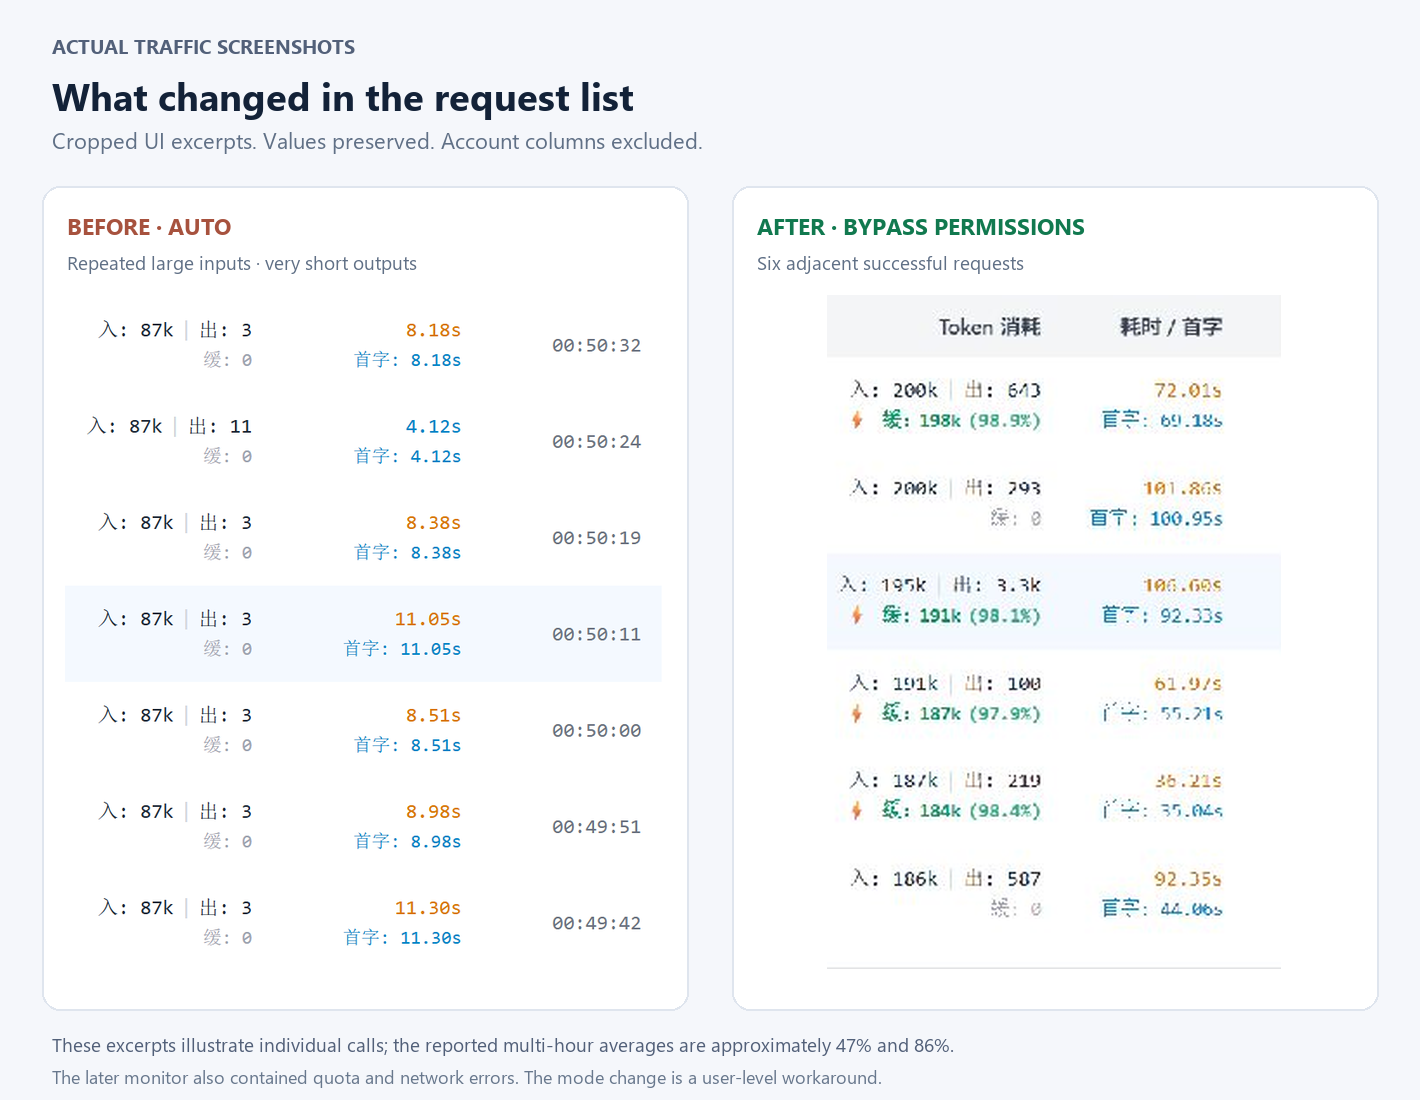
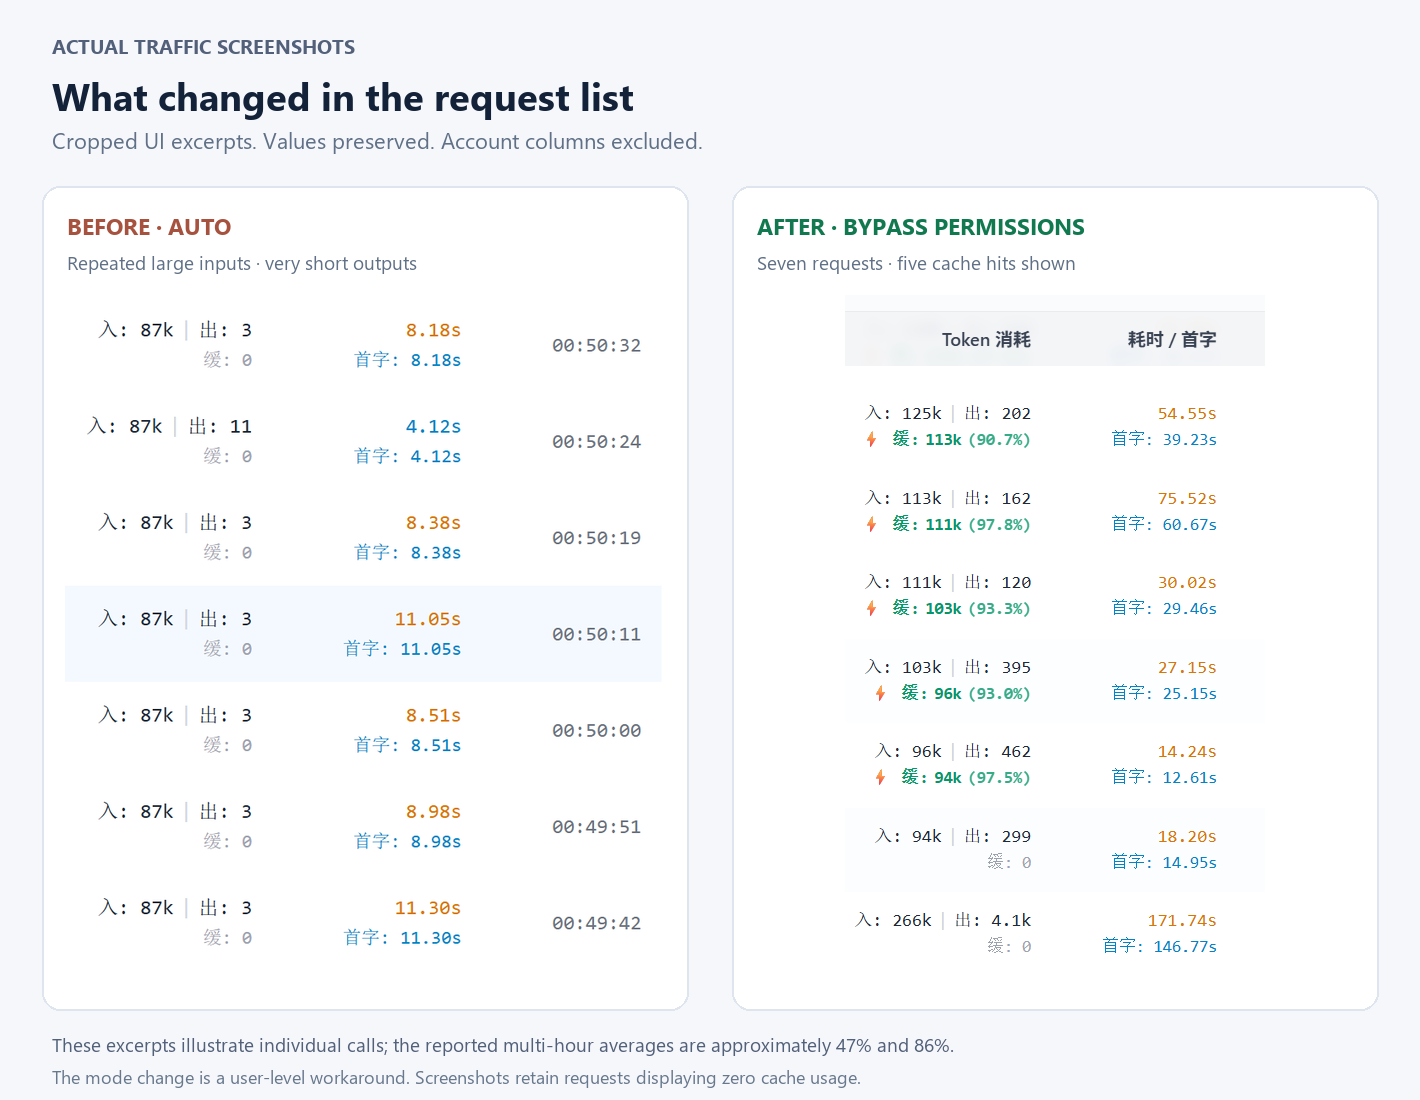
Update post-change traffic screenshot

diff --git a/README.en.md b/README.en.md
@@ -14,9 +14,9 @@ After I changed the permission mode from **Auto** to **Bypass Permissions**, the
 
 ![Actual traffic screenshots before and after the change](assets/traffic-comparison.png)
 
-The left excerpt comes from the original Antigravity Tools screenshot. It shows repeated large input counts, very short outputs, and cache usage displayed as zero. The right excerpt comes from the later live traffic page. Several of its six adjacent successful requests display roughly 98% cache reuse. Requests displaying zero cache usage remain visible too.
+The left excerpt comes from the original Antigravity Tools screenshot. It shows repeated large input counts, very short outputs, and cache usage displayed as zero. The right screenshot shows seven post-change requests. Five display cache reuse between 90.7% and 97.8%, while two requests displaying zero cache usage remain visible too.
 
-Account columns and unrelated regions were cropped out. The numerical values were preserved. At capture time, the search box displayed `200`, and all six visible rows were successful requests. This panel illustrates successful traffic; the same live monitor also contained upstream quota and network errors.
+The published images show token usage, cache usage and latency summaries. Numerical values were preserved. Account information and unrelated content are outside the images.
 
 Original-resolution crops: [before](assets/traffic-before.png) · [after](assets/traffic-after.png).
 

diff --git a/README.md b/README.md
@@ -14,9 +14,9 @@
 
 ![真实流量截图对比，左为切换前，右为切换后](assets/traffic-comparison.png)
 
-左侧来自最初发现问题时的 Antigravity Tools 流量截图。能看到连续相同的大输入、3 token 左右的短输出，以及界面显示的“缓 0”。右侧来自切换后的真实流量页面，六条相邻成功请求中，多条显示约 98% 的缓存复用，同时保留了缓存显示为 0 的请求。
+左侧来自最初发现问题时的 Antigravity Tools 流量截图。能看到连续相同的大输入、3 token 左右的短输出，以及界面显示的“缓 0”。右侧来自切换后的真实流量截图，七条请求中，五条显示 90.7% 至 97.8% 的缓存复用，同时保留了两条缓存显示为 0 的请求。
 
-公开图片裁去了账号列和其他无关区域，仅保留 token、缓存和耗时等摘要。数值没有重写。右侧捕获时，搜索框显示 `200`，画面中的六条记录均为成功请求。这是成功请求的展示片段；当时同一流量页面也有上游配额和网络错误。
+公开图片仅展示 token、缓存和耗时等摘要。数值没有重写，账号和其他无关信息未出现在图片中。
 
 原尺寸裁剪图可单独查看：[切换前](assets/traffic-before.png) · [切换后](assets/traffic-after.png)。
 
